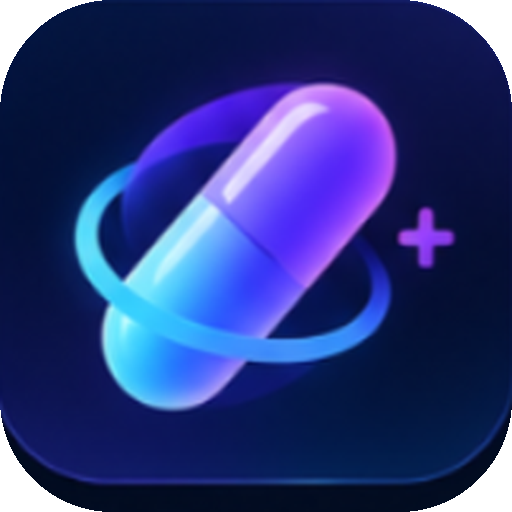
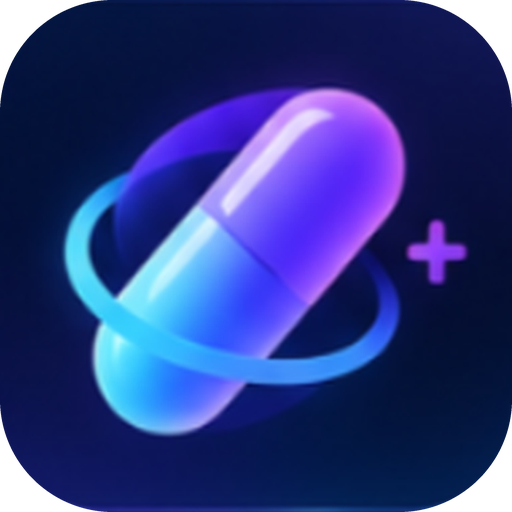
Icône sans base sombre et rappels plus visibles

Changed region(s): [[0.0938, 0.1562, 0.8125, 0.875], [0.0, 0.7812, 1.0, 1.0], [0.7812, 0.4062, 0.9375, 0.5625]]

diff --git a/demo/demo.html b/demo/demo.html
@@ -2275,6 +2275,7 @@ body { max-width: var(--col); margin: 0 auto; box-shadow: 0 0 0 1px var(--line);
   ];
   var MEDS = [
     [/doliprane|paracetamol|dafalgan/, 'Doliprane'],
+    [/nefopam|acupan/, 'Nefopam'],
     [/ibuprofene|advil|nurofen|spedifen/, 'Ibuprofène'],
     [/spasfon/, 'Spasfon']
   ];
@@ -2867,7 +2868,7 @@ body { max-width: var(--col); margin: 0 auto; box-shadow: 0 0 0 1px var(--line);
     v = v || {};
     if (kind === 'pharmacy') return buildPharmacyFields(v);
     var nameLabels = { symptom: 'Symptôme', medication: 'Médicament', treatment: 'Médicament du traitement de fond', note: 'Titre' };
-    var placeholders = { symptom: 'Ex. Maux de tête', medication: 'Ex. Doliprane', treatment: 'Ex. Levothyrox', note: 'Ex. Mauvaise nuit' };
+    var placeholders = { symptom: 'Ex. Maux de tête', medication: 'Ex. Nefopam', treatment: 'Ex. Levothyrox', note: 'Ex. Mauvaise nuit' };
     var name = h('input', { type: 'text', id: 'f-name', value: v.name || '', autocomplete: 'off', placeholder: placeholders[kind], 'aria-label': nameLabels[kind] });
     var names = kind === 'note' ? [] : L.topNames(arrFor(kind), 8);
     var chips = names.length ? h('div', { class: 'chips' }, names.map(function (n) {
@@ -3304,8 +3305,8 @@ body { max-width: var(--col); margin: 0 auto; box-shadow: 0 0 0 1px var(--line);
 
   var SUGGESTIONS = [
     'J’ai mal à la tête depuis ce matin',
-    'J’ai pris du Doliprane il y a une heure',
-    'Mes nausées sont-elles liées à l’ibuprofène ?'
+    'J’ai pris du Nefopam',
+    'Un de mes symptômes est-il lié à un de mes traitements ?'
   ];
 
   /* Résumé du jour : prochaine prise, saisies du jour, renouvellement, stock bas */
@@ -3747,7 +3748,13 @@ body { max-width: var(--col); margin: 0 auto; box-shadow: 0 0 0 1px var(--line);
       return h('div', { class: 'card' },
         h('h2', { text: 'Rappels sur ce téléphone' }),
         h('div', { class: 'notif-check' }, h('div', { class: 'nc-row ko' }, h('b', { text: '✕' }), h('span', { text: !SN
-          ? 'Le module de rappels du téléphone n’est pas chargé : aucune notification ne peut être programmée. Cela arrive dans un navigateur, ou si le fichier native.js de l’application n’est pas à jour.'
+          ? 'Le module de rappels du téléphone n’est pas démarré : aucune notification ne peut être programmée. ' + (function () {
+            var i = window.__nativeInfo, C = window.Capacitor;
+            if (!i) return 'Détail : le fichier native.js n’a pas été chargé par l’application (il manque dans l’APK : vérifie le workflow et index.html).';
+            if (!i.cap) return 'Détail : native.js est chargé mais l’application n’est pas reconnue comme une appli Android (Capacitor absent). Ouvre bien l’APK installé, pas un navigateur.';
+            if (!i.native) return 'Détail : native.js est chargé, mais la plateforme détectée est « ' + (i.platform || 'inconnue') + ' » au lieu d’Android.';
+            return 'Détail : le plugin de notifications n’a pas pu démarrer' + (i.err ? ' (' + i.err + ')' : '') + '. Il manque probablement dans l’APK : vérifie package.json (@capacitor/local-notifications).';
+          })()
           : 'Cette version de l’application contient un ancien module de rappels (fichier native.js pas à jour). Mets à jour native.js sur GitHub, puis réinstalle l’APK.' }))));
     }
     var out = h('div', { class: 'notif-check', 'aria-live': 'polite' });

diff --git a/native.js b/native.js
@@ -19,7 +19,7 @@
   var ready = null;
   var queue = Promise.resolve();
 
-  function channelFor(mode, sound) { return mode === 'sound' ? 'son_' + (SOUNDS.indexOf(sound) >= 0 ? sound : 'carillon') : 'silencieux'; }
+  function channelFor(mode, sound) { return mode === 'sound' ? 'rap_' + (SOUNDS.indexOf(sound) >= 0 ? sound : 'carillon') : 'silencieux'; }
 
   var lastErr = '';
   function note(e) { lastErr = (e && (e.message || e.errorMessage)) ? String(e.message || e.errorMessage) : String(e || ''); }
@@ -35,7 +35,10 @@
       ready = perm.then(function () {
         var jobs = [LN.createChannel({ id: 'silencieux', name: 'Rappels silencieux', description: 'Rappels sans son', importance: 2, visibility: 0, vibration: false })];
         SOUNDS.forEach(function (s) {
-          jobs.push(LN.createChannel({ id: 'son_' + s, name: 'Rappels avec son : ' + LABEL[s], description: 'Rappels avec le son « ' + LABEL[s] + ' »', importance: 4, visibility: 0, vibration: true, sound: s + '.wav' }));
+          /* importance 5 = alerte maximale : fenêtre qui s'affiche par-dessus l'écran ; visibilité 1 = contenu lisible sur l'écran de verrouillage */
+          jobs.push(LN.createChannel({ id: 'rap_' + s, name: 'Rappels de prise : ' + LABEL[s], description: 'Rappel bien visible avec le son « ' + LABEL[s] + ' »', importance: 5, visibility: 1, vibration: true, lights: true, sound: s + '.wav' }));
+          /* anciens canaux (réglage plus discret, non modifiable une fois créé) */
+          jobs.push(LN.deleteChannel ? LN.deleteChannel({ id: 'son_' + s }).catch(function () { /* sans importance */ }) : null);
         });
         jobs.push(LN.registerActionTypes({ types: [{ id: 'PRISE', actions: [{ id: 'fait', title: 'Fait' }, { id: 'reporter', title: 'Reporter' }] }] }));
         return Promise.all(jobs);
@@ -46,7 +49,7 @@
 
   function build(n, id, at) {
     var o = {
-      id: id, title: n.title, body: n.body, channelId: channelFor(n.mode, n.sound),
+      id: id, title: n.title, body: n.body, largeBody: n.body, channelId: channelFor(n.mode, n.sound),
       smallIcon: 'ic_stat_pill', iconColor: '#6d7dff',
       schedule: { at: new Date(at), allowWhileIdle: true }
     };

diff --git a/demo/ai.js b/demo/ai.js
@@ -88,6 +88,7 @@
   ];
   var MEDS = [
     [/doliprane|paracetamol|dafalgan/, 'Doliprane'],
+    [/nefopam|acupan/, 'Nefopam'],
     [/ibuprofene|advil|nurofen|spedifen/, 'Ibuprofène'],
     [/spasfon/, 'Spasfon']
   ];

diff --git a/LISEZ-MOI.md b/LISEZ-MOI.md
@@ -1,0 +1,88 @@
+# Suivi Santé : obtenir ton lien APK avec GitHub
+
+Durée : environ 15 minutes, sans rien installer. Tout se fait dans le navigateur
+(ordinateur recommandé, mais un téléphone en « version pour ordinateur » marche aussi).
+
+## 1. Créer un compte GitHub
+Va sur https://github.com/signup et crée un compte gratuit (si tu n'en as pas déjà un).
+
+## 2. Créer le dépôt
+1. En haut à droite, clique sur **+** puis **New repository**.
+2. Nom : `suivi-sante`.
+3. Choisis **Public** (nécessaire pour que le lien de téléchargement marche sans connexion).
+   Aucune donnée de santé n'est dans ce dépôt : tes notes restent sur ton téléphone,
+   et ta clé IA n'est jamais envoyée sur GitHub.
+4. Coche **Add a README file**, puis **Create repository**.
+
+## 3. Envoyer les fichiers
+1. Dézippe le dossier que je t'ai donné.
+2. Sur la page du dépôt : **Add file** puis **Upload files**.
+3. Glisse-dépose **tous** les fichiers et dossiers (pas le zip lui-même) :
+   `index.html`, `style.css`, `app.js`, `logic.js`, `native.js`, `package.json`,
+   `capacitor.config.json`, `debug.keystore`, `build-apk.yml`,
+   et les dossiers `sounds` (sons des rappels) et `resources` (icône de l'application).
+   Sur ordinateur, glisse bien les dossiers entiers ; sur téléphone, ajoute leurs fichiers un par un
+   si besoin (le dossier `resources/res/...` doit garder son arborescence).
+   Les dossiers `tests`, `demo` et `assets` sont facultatifs.
+4. En bas, clique sur **Commit changes**.
+
+## 4. Activer la fabrication automatique de l'APK
+GitHub n'accepte de lancer la fabrication que si le fichier `build-apk.yml` est dans un dossier
+spécial. On le déplace :
+1. Clique sur le fichier `build-apk.yml` dans la liste.
+2. Clique sur l'icône crayon (**Edit this file**).
+3. En haut, dans la case du nom de fichier, place le curseur tout au début, et tape :
+   `.github/workflows/` (le nom doit devenir `.github/workflows/build-apk.yml`).
+4. Clique sur **Commit changes**, puis encore **Commit changes**.
+
+## 5. Attendre la compilation
+1. Va dans l'onglet **Actions** du dépôt. Si GitHub demande d'activer les workflows,
+   clique sur le bouton vert pour confirmer.
+2. Tu verras « Construire l'APK » tourner (point jaune). Compte 5 à 10 minutes.
+3. Un ✓ vert veut dire que c'est prêt.
+
+## 6. Récupérer le lien APK
+Sur la page principale du dépôt, à droite, clique sur **Releases**, puis sur la dernière version.
+Dans **Assets**, le fichier `suivi-sante.apk` est ton lien de téléchargement.
+
+Lien permanent qui pointe toujours vers la dernière version (remplace TON-PSEUDO) :
+
+    https://github.com/TON-PSEUDO/suivi-sante/releases/latest/download/suivi-sante.apk
+
+## 7. Installer sur le téléphone Android
+1. Ouvre le lien sur le téléphone et télécharge le fichier.
+2. Android demande d'autoriser l'installation depuis ce navigateur (« Installer des applications
+   inconnues ») : autorise-le, puis rouvre le fichier téléchargé et appuie sur **Installer**.
+3. Si Google Play Protect affiche un avertissement, c'est normal pour une application qui ne vient
+   pas du Play Store : choisis **Installer quand même**.
+
+## 8. Activer l'IA (gratuit)
+Dans l'application, onglet **Réglages**, suis les instructions pour créer une clé gratuite
+Google Gemini et la coller. Sans clé, la saisie rapide, l'historique et l'analyse fonctionnent déjà.
+
+## Mettre à jour plus tard
+Quand je te donne une nouvelle version : remplace les fichiers dans le dépôt (Upload files), attends le
+nouveau ✓ vert, télécharge le nouvel APK et installe-le **par-dessus** l'ancien. Tes données sont
+conservées. Ne désinstalle pas l'ancienne version avant.
+
+## Important : sauvegarde
+Tes données sont uniquement sur le téléphone. Si tu désinstalles l'application ou si tu perds le
+téléphone, elles disparaissent. Dans **Réglages > Sauvegarde**, copie ta sauvegarde de temps en temps
+et colle-la dans une note ou un mail à toi-même.
+
+## Si la compilation échoue (croix rouge dans Actions)
+Clique sur l'échec, ouvre l'étape en rouge, copie les dernières lignes d'erreur et envoie-les-moi :
+je corrigerai.
+
+## Pour info
+- L'APK est signé avec une clé de test (fichier `debug.keystore`), parfait pour un usage personnel
+  mais pas pour une publication sur le Play Store.
+- Cette application est un carnet de suivi, pas un dispositif médical. Elle ne remplace pas l'avis d'un
+  professionnel de santé.
+
+## Notifications et icône
+- Au premier lancement, Android demande l'autorisation d'envoyer des notifications : accepte.
+- Sur Android 12 et plus, si les rappels arrivent en retard, va dans Paramètres > Applications > Suivi Santé >
+  Alarmes et rappels, et autorise-les.
+- L'application reprogramme les rappels des 7 prochains jours à chaque ouverture : ouvre-la de temps en temps.
+- L'icône de l'écran d'accueil est ton logo (fichiers dans `resources`).
